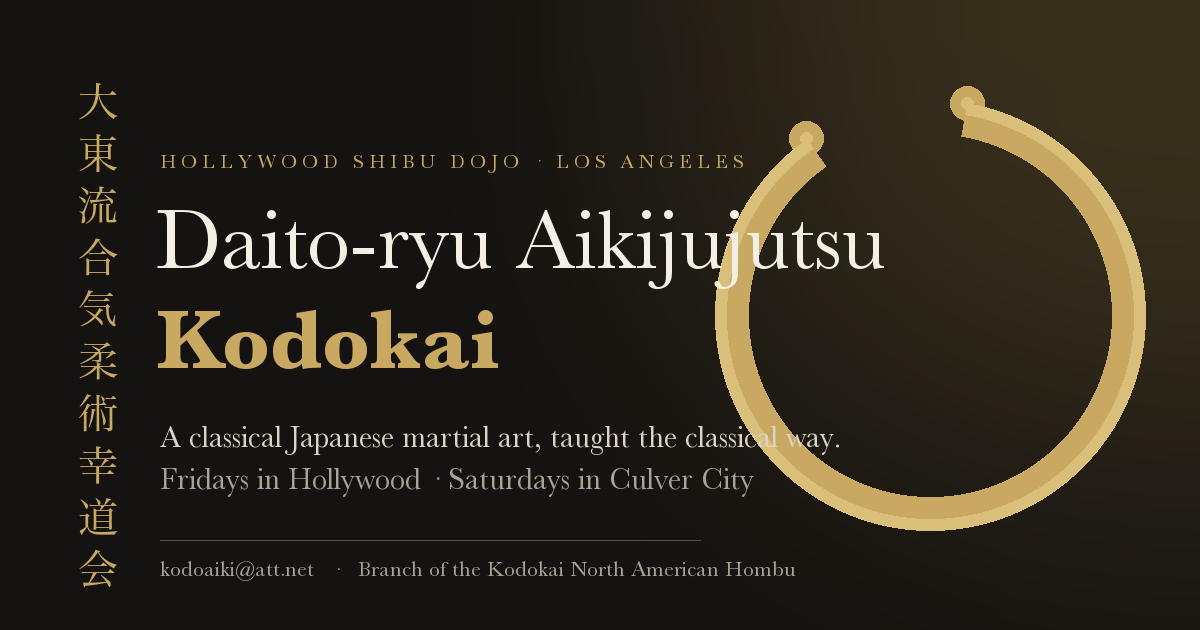
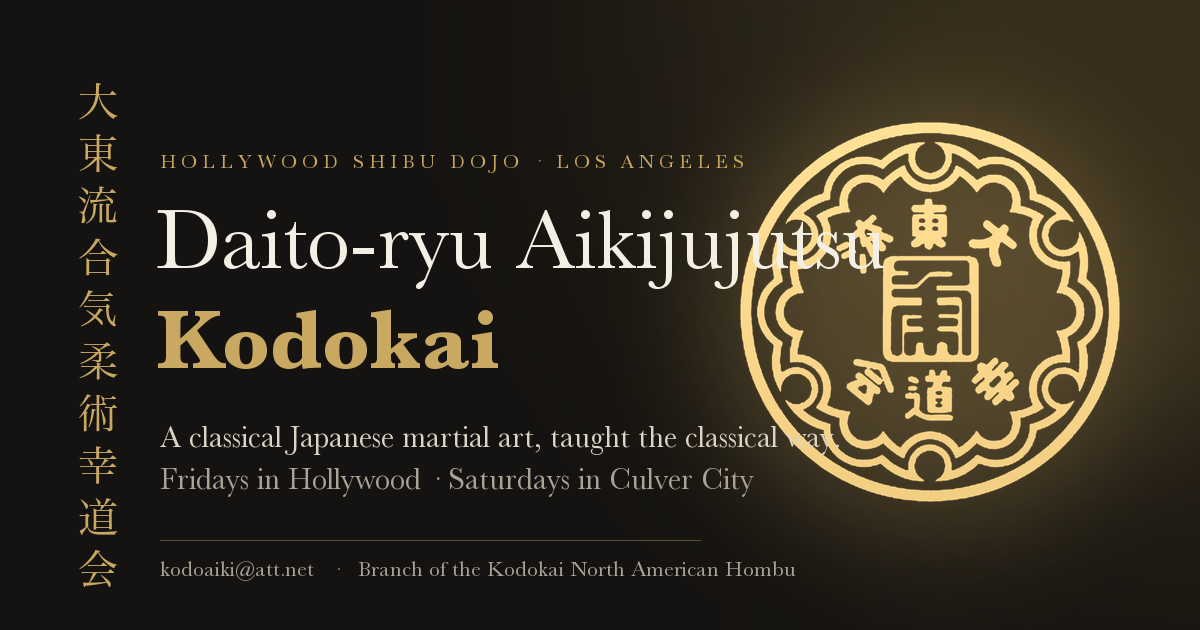
Hero: official Kodokai crest replaces the enso; share image updated

Changed region(s): [[0.5858, 0.1206, 0.9558, 0.8444]]

diff --git a/index.html b/index.html
@@ -177,7 +177,7 @@ h1,h2,h3,h4{font-family:var(--serif);font-weight:500;line-height:1.08;margin:0;c
 .hero::after{ /* faint horizon line */
   content:"";position:absolute;left:0;right:0;bottom:0;height:1px;background:linear-gradient(90deg,transparent,rgba(201,169,97,.35),transparent);
 }
-.hero .wrap{display:grid;grid-template-columns:auto 1fr;gap:clamp(20px,4vw,64px);align-items:center;width:100%}
+.hero .wrap{display:grid;grid-template-columns:auto minmax(0,1fr) auto;gap:clamp(20px,4vw,64px);align-items:center;width:100%}
 .tate{ /* vertical kanji column */
   writing-mode:vertical-rl;text-orientation:upright;font-family:var(--jp);font-size:clamp(1.15rem,1.5vw,1.6rem);letter-spacing:.42em;
   color:var(--gold-2);opacity:.85;line-height:1;padding:8px 0;border-left:1px solid var(--line-dark);padding-left:18px;height:min(60vh,520px);
@@ -193,21 +193,23 @@ h1,h2,h3,h4{font-family:var(--serif);font-weight:500;line-height:1.08;margin:0;c
 .hero-facts{display:flex;flex-wrap:wrap;gap:0 40px;margin-top:64px;padding-top:26px;border-top:1px solid var(--line-dark);font-size:.86rem;letter-spacing:.06em;color:rgba(244,239,229,.7)}
 .hero-facts div{padding:6px 0}
 .hero-facts b{display:block;color:var(--gold-2);font-weight:500;font-family:var(--serif);font-size:1.15rem;letter-spacing:0}
-.enso{
-  position:absolute;right:-8vw;top:50%;transform:translateY(-52%);width:min(72vh,720px);height:auto;z-index:1;opacity:.9;pointer-events:none;
+.crest-wrap{display:flex;justify-content:flex-end;align-items:center;order:3}
+.crest{
+  width:clamp(240px,30vw,440px);height:auto;
+  filter:drop-shadow(0 0 48px rgba(201,169,97,.22)) drop-shadow(0 2px 6px rgba(0,0,0,.4));
+  animation:crest-in 1.6s var(--ease) .2s both;
 }
-.enso-stroke{stroke-dasharray:1;stroke-dashoffset:1;animation:draw 2.4s cubic-bezier(.65,0,.35,1) .35s forwards}
-.enso-stroke.thin{animation-duration:2.9s}
-@keyframes draw{to{stroke-dashoffset:0}}
-@media (prefers-reduced-motion:reduce){.enso-stroke{animation:none;stroke-dashoffset:0}}
+@keyframes crest-in{from{opacity:0;transform:scale(.96)}to{opacity:1;transform:none}}
+@media (prefers-reduced-motion:reduce){.crest{animation:none}}
 @media (max-width:1280px){
-  .enso{right:-22vw;opacity:.5}
+  .crest{width:clamp(220px,26vw,360px)}
 }
 @media (max-width:860px){
   .hero{padding:120px 0 70px}
   .hero .wrap{grid-template-columns:1fr}
   .tate{display:none}
-  .enso{right:-30vw;top:38%;width:120vw;opacity:.35}
+  .crest-wrap{order:-1;justify-content:flex-start;margin-bottom:6px}
+  .crest{width:150px;filter:drop-shadow(0 0 28px rgba(201,169,97,.25))}
   .hero-facts{gap:0 26px;margin-top:44px}
 }
 
@@ -428,23 +430,9 @@ h1,h2,h3,h4{font-family:var(--serif);font-weight:500;line-height:1.08;margin:0;c
 <main id="main">
 <!-- ================= HERO ================= -->
 <section class="hero" id="top">
-  <svg class="enso" viewBox="0 0 600 600" aria-hidden="true">
-    <defs>
-      <filter id="brush" x="-15%" y="-15%" width="130%" height="130%">
-        <feTurbulence type="fractalNoise" baseFrequency="0.028" numOctaves="3" seed="11" result="t"/>
-        <feDisplacementMap in="SourceGraphic" in2="t" scale="16" xChannelSelector="R" yChannelSelector="G"/>
-      </filter>
-      <linearGradient id="ink" x1="0" y1="0" x2="1" y2="1">
-        <stop offset="0" stop-color="#d7b862"/><stop offset="1" stop-color="#9a7a2f"/>
-      </linearGradient>
-    </defs>
-    <g filter="url(#brush)" fill="none" stroke-linecap="round">
-      <path class="enso-stroke" pathLength="1" d="M 322 74 A 232 232 0 1 0 478 132" stroke="url(#ink)" stroke-width="34" opacity=".85" stroke-dasharray=".94 1"/>
-      <path class="enso-stroke thin" pathLength="1" d="M 322 74 A 232 232 0 1 0 478 132" stroke="#f0dc9a" stroke-width="10" opacity=".45"/>
-    </g>
-  </svg>
   <div class="wrap">
     <div class="tate" aria-hidden="true">大東流合気柔術幸道会</div>
+    <div class="crest-wrap"><img class="crest" src="assets/kodokai-crest.png" width="1200" height="1200" alt="Crest of Daito-ryu Aikijujutsu Kodokai" fetchpriority="high"></div>
     <div class="hero-body">
       <p class="eyebrow">Hollywood Shibu Dojo <span class="jp">ハリウッド支部</span> · Los Angeles</p>
       <h1>Daito-ryu Aikijujutsu<br><em>Kodokai</em></h1>
